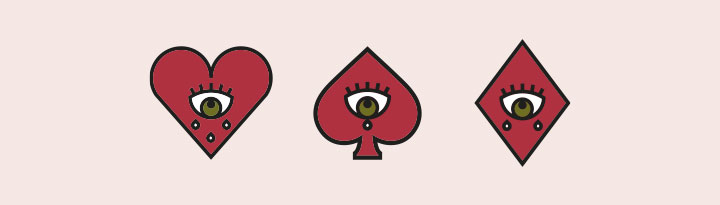
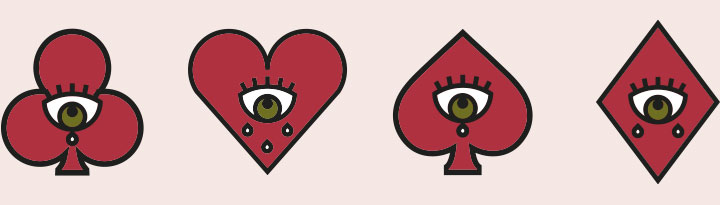
correzioni img carte + correzione link in scacchi

diff --git a/scacchi.html b/scacchi.html
@@ -139,7 +139,7 @@
                 <div class="nav-links">                
                     <div class="content-570 center-relative">
                         <div class="nav-previous">                                                                          
-                            <a href="bellocchi.html" rel="prev">
+                            <a href="palazzo bellocchi.html" rel="prev">
                             Palazzo<br>Bellocchi</a>    
                             <div class="clear"></div>
                             <div class="cat-links">
